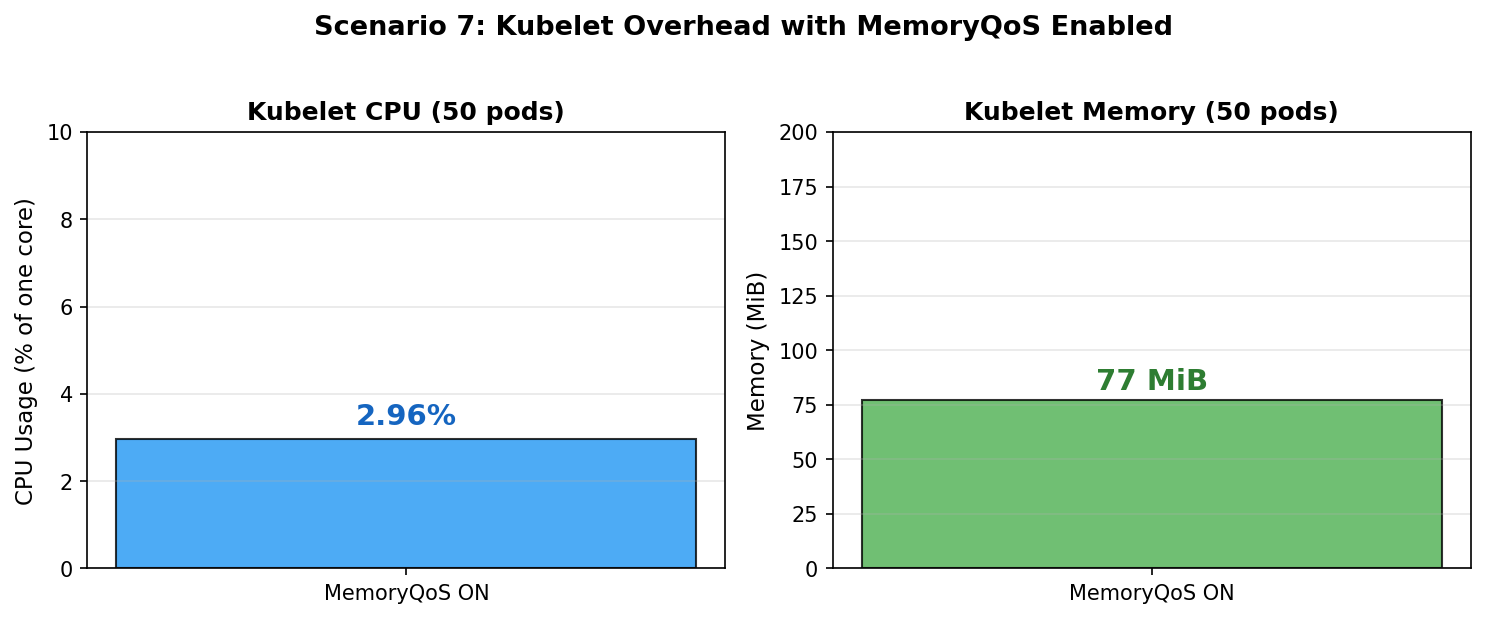
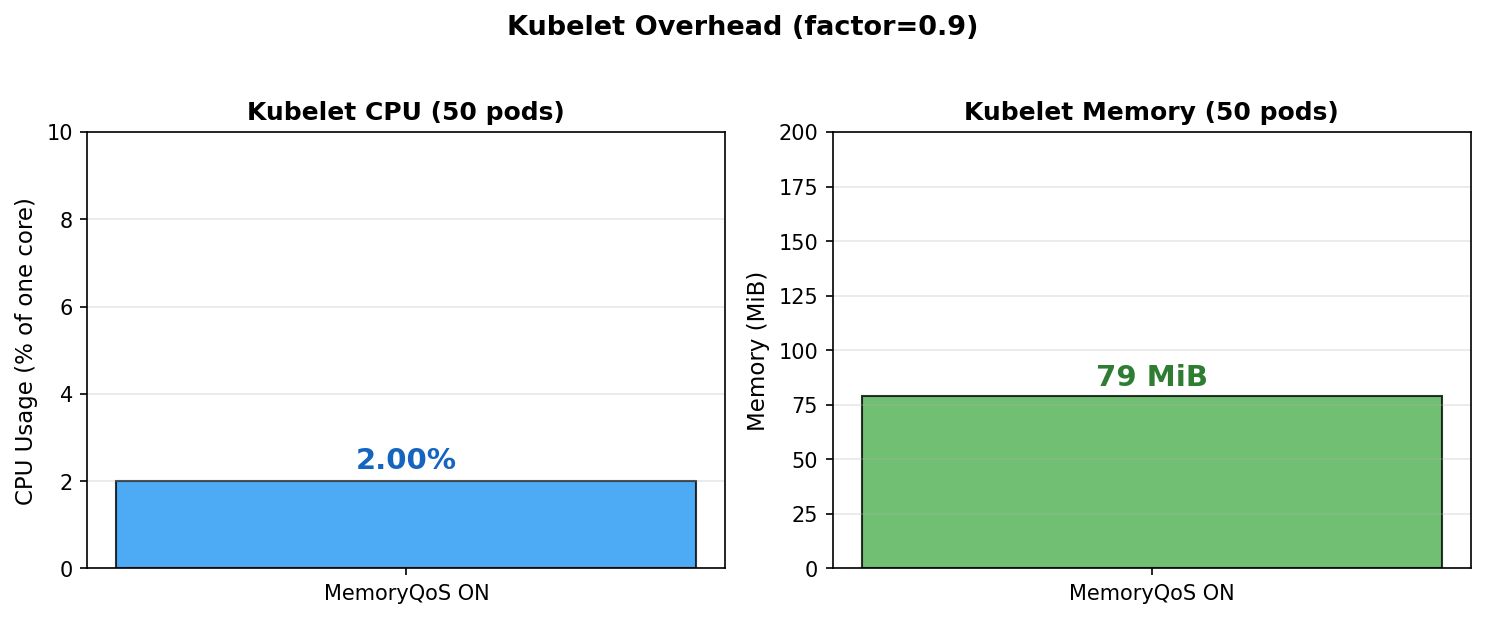
Add remaining tests, update graphs and scripts for factor 0.9

Changed region(s): [[0.062, 0.6456, 0.4956, 0.7994], [0.5886, 0.5841, 0.9603, 0.6764], [0.2168, 0.0, 0.8054, 0.0615]]

diff --git a/scripts/plot-throttle-timeline.py b/scripts/plot-throttle-timeline.py
@@ -255,7 +255,7 @@ def main():
 
     csv_file = sys.argv[1]
     output_dir = sys.argv[2]
-    throttle_factor = float(sys.argv[3]) if len(sys.argv) > 3 else 0.8
+    throttle_factor = float(sys.argv[3]) if len(sys.argv) > 3 else 0.9
 
     os.makedirs(output_dir, exist_ok=True)
 

diff --git a/README.md b/README.md
@@ -181,6 +181,83 @@ kubelet_memory_qos_node_memory_min_total_bytes 5.05413632e+08
 
 ---
 
+## 9. Pod Without Memory Limit
+
+Burstable pod with requests=128Mi but no memory limit. Node allocatable: 63,996 MiB.
+
+**Pod spec**: [`manifests/no-limit-test-pod.yaml`](manifests/no-limit-test-pod.yaml)
+
+| cgroup knob | Value |
+|-------------|-------|
+| memory.min | 128 MiB |
+| memory.high | 57,609 MiB |
+| memory.max | `max` |
+
+When no limit is set, `memory.high = 128 + 0.9 * (63,996 - 128) = 57,510 MiB` (actual 57,609 after page alignment).
+
+---
+
+## 10. High Aggregate memory.min
+
+Three pods each requesting 8Gi on a node with 64Gi allocatable. Sum is below allocatable in this test.
+
+| Level | memory.min |
+|-------|-----------|
+| Pod 1 | 8,192 MiB |
+| Pod 2 | 8,192 MiB |
+| Pod 3 | 8,192 MiB |
+| burstable QoS total | 24,816 MiB |
+| kubepods total | 24,866 MiB |
+| node allocatable | 63,996 MiB |
+
+If sum(memory.min) exceeds available memory, the kernel proportionally reduces each cgroup's effective protection based on sibling ratios ([cgroup v2 docs](https://docs.kernel.org/admin-guide/cgroup-v2.html)).
+
+---
+
+## 11. Kubelet Overhead
+
+50 Burstable pods (requests=32Mi, limits=64Mi) at steady state.
+
+| Metric | Value |
+|--------|-------|
+| Kubelet CPU (30s average) | 2.00% of one core |
+| Kubelet memory | 79 MiB |
+| Pods managed | 50 |
+
+2.00% CPU is the total kubelet CPU, not MemoryQoS alone. The `setMemoryQoS` loop runs every 60s. Writing `memory.min=0` when already set is a kernel no-op (~20us per pod).
+
+---
+
+## 12. Rollback Safety
+
+Burstable pod (requests=128Mi, limits=256Mi). Disabled MemoryQoS by removing `memoryReservationPolicy` and setting `MemoryQoS: false`, then restarted kubelet. Waited 90s.
+
+| cgroup knob | Before | After (90s) |
+|-------------|--------|-------------|
+| pod memory.min | 128 MiB | 0 (cleared) |
+| burstable QoS memory.min | -- | 0 (cleared) |
+| container memory.high | 243 MiB | 243 MiB (stale) |
+| container memory.min | 128 MiB | 128 MiB (stale) |
+
+QoS-class and pod-level values are cleared by the reconcile loop. Container-level values persist because they are set via `Unified` at creation time and require CRI runtime support to update. Both `memoryReservationPolicy` and the feature gate must be removed before restart, otherwise kubelet validation rejects the config and won't start.
+
+---
+
+## 13. Repeated Trials (factor 0.9)
+
+Three runs of the same throttle test.
+
+| Trial | Duration (s) | Throttle events | Outcome |
+|-------|-------------|-----------------|---------|
+| 1 | 63 | 2,677 | OOMKilled |
+| 2 | 75 | 4,140 | OOMKilled |
+| 3 | 61 | 2,713 | OOMKilled |
+| **Median** | **63** | **2,713** | |
+
+Variance is 61-75s (19% spread). All three follow the same pattern.
+
+---
+
 ## Notes
 
 - `memoryThrottlingFactor=0.9` is the kubelet default. All tests use this value.
